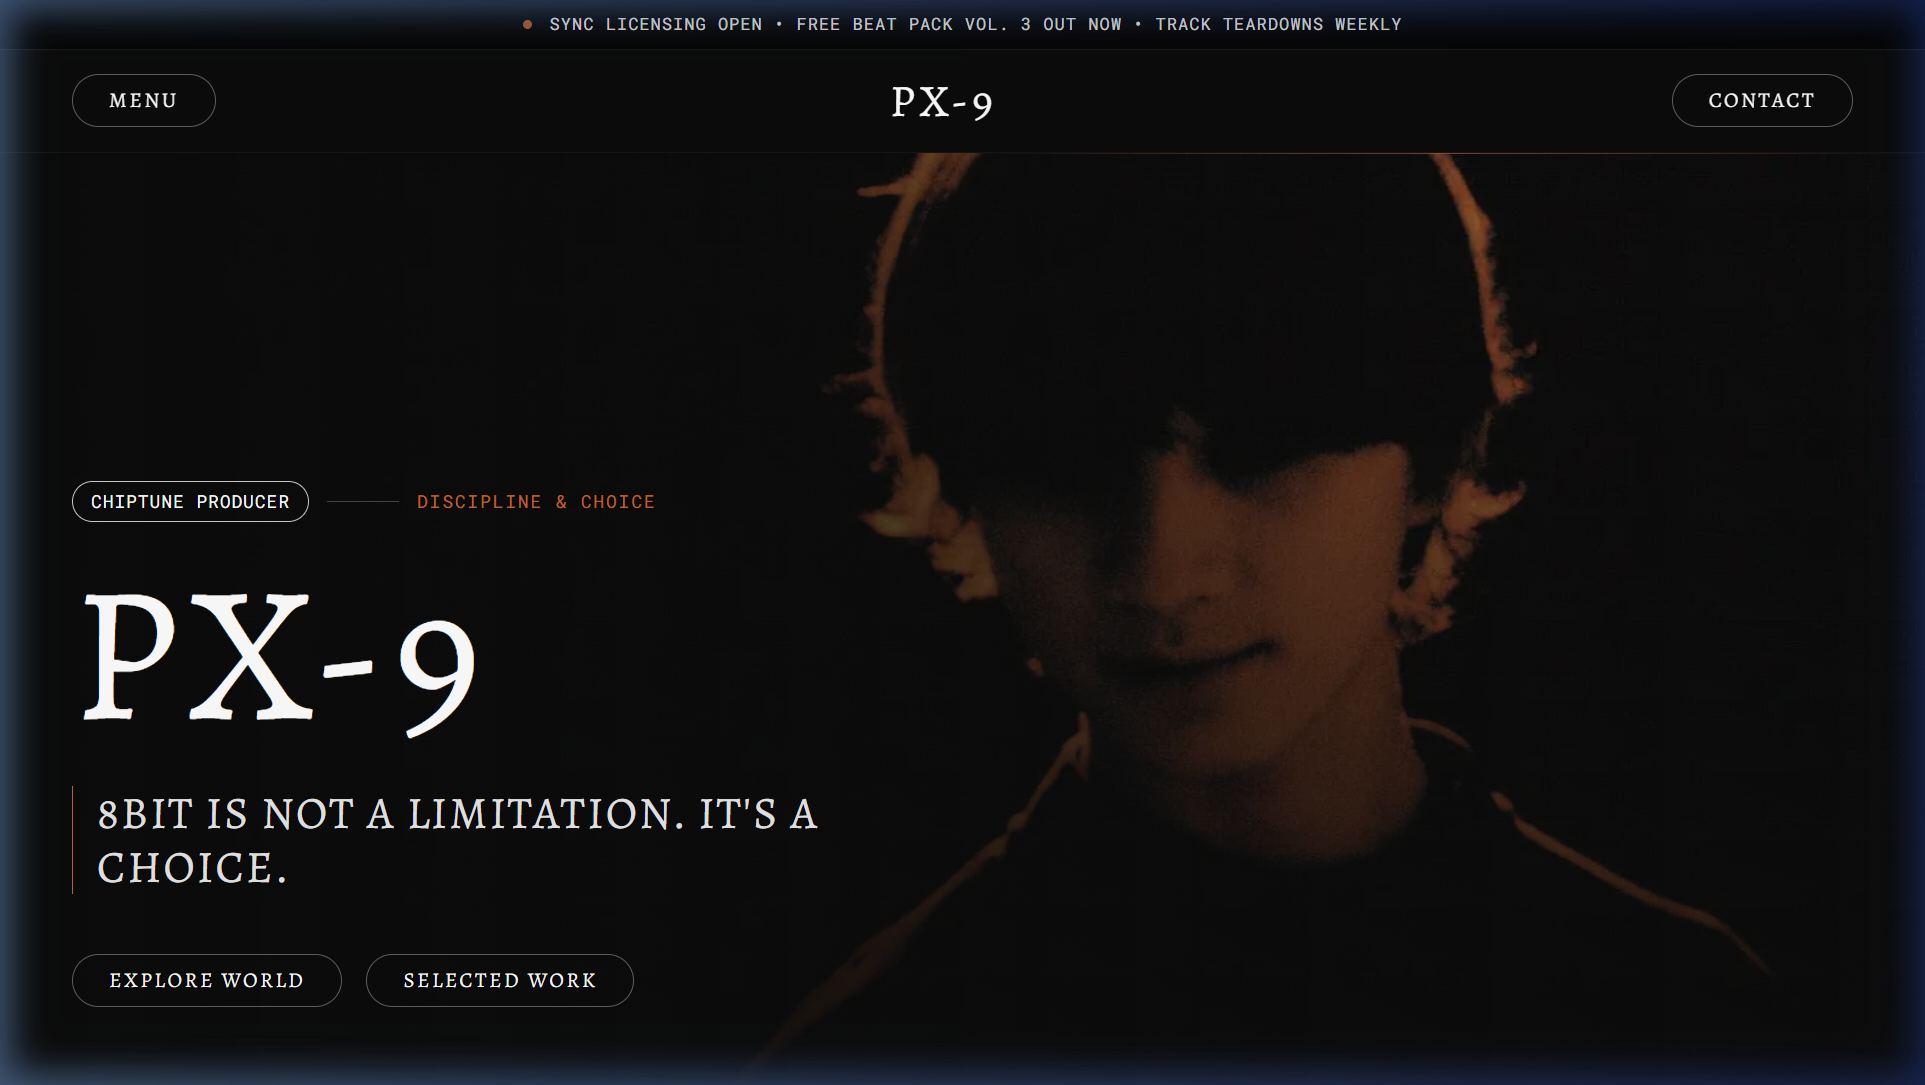
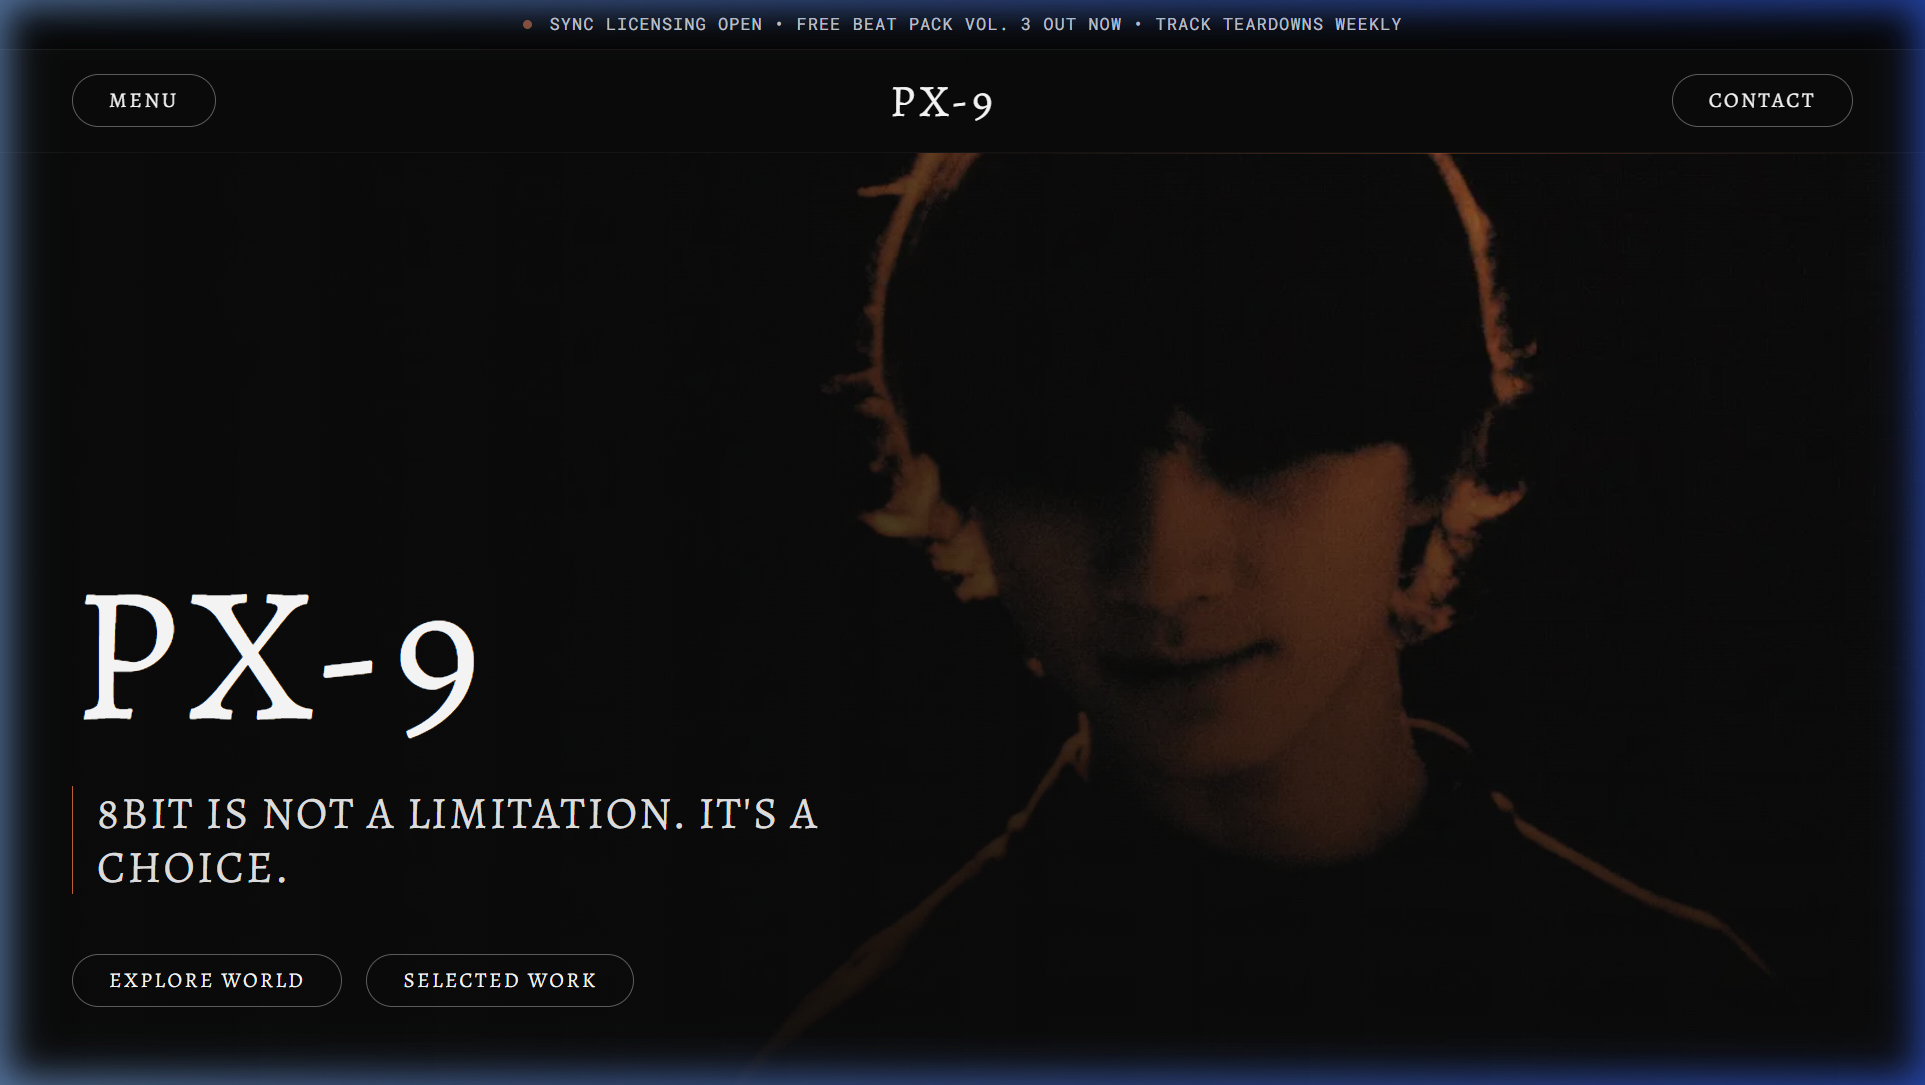
fix: remove tagline badges from hero section and update visual summary screenshots

diff --git a/src/components/HeroSection.tsx b/src/components/HeroSection.tsx
@@ -62,15 +62,6 @@ export default function HeroSection() {
         className="relative z-20 max-w-[1400px] w-full mx-auto px-6 md:px-12 pb-16 md:pb-24 pt-32"
       >
         <div className="max-w-2xl flex flex-col gap-6">
-          {/* Tagline Badge */}
-          <div className="flex items-center gap-3">
-            <span className="badge-pill">CHIPTUNE PRODUCER</span>
-            <span className="w-12 h-[1px] bg-[#484848]" />
-            <span className="font-mono text-xs text-[#cc6437] uppercase tracking-widest">
-              DISCIPLINE & CHOICE
-            </span>
-          </div>
-
           {/* Main Wordmark H1 with Alegreya */}
           <h1 className="font-brand text-7xl md:text-9xl text-white tracking-wider leading-none select-none uppercase">
             PX-9
